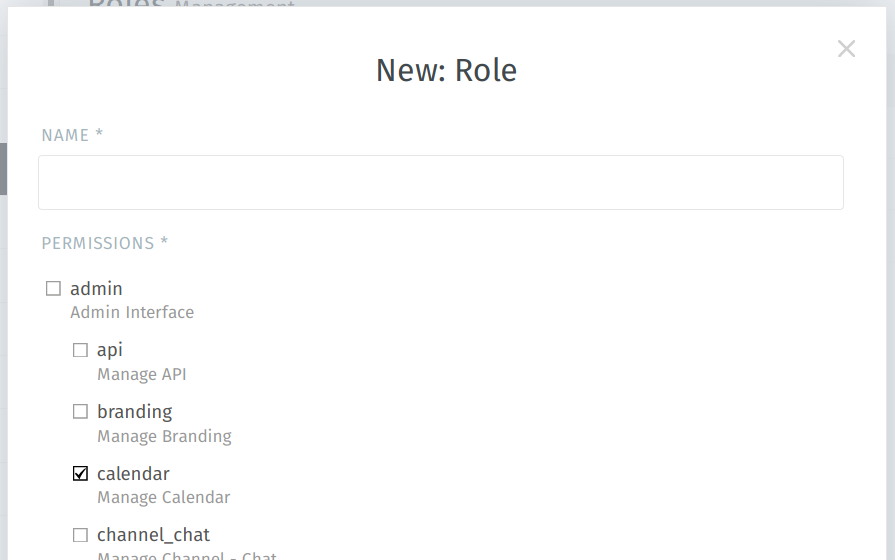
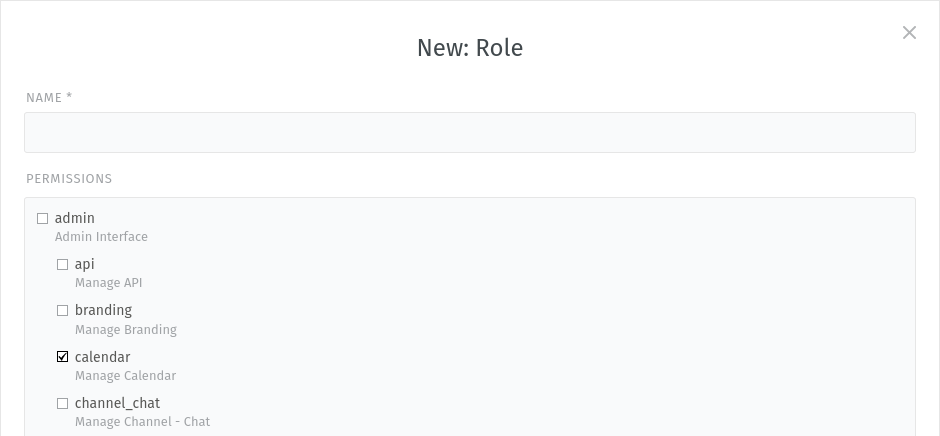
Replaced screenshot, small clean up

Changed region(s): [[0.0, 0.0, 1.0, 1.0], [0.0603, 0.5963, 0.3017, 1.0], [0.4223, 0.0894, 0.5732, 0.1491]]

diff --git a/manage/roles/index.rst b/manage/roles/index.rst
@@ -1,9 +1,9 @@
 Roles
 =====
 
-If you’re already using Zammad,
-you’ll know that users can be **admins**, **agents**, or **customers**.
-These are Zammad’s built-in roles, and they’re the tip of the iceberg
+If you're already using Zammad,
+you'll know that users can be **admins**, **agents**, or **customers**.
+These are Zammad's built-in roles, and they're the tip of the iceberg
 of its powerful, flexible, and fine-grained permission system.
 
 .. figure:: /images/manage/roles/role-overview.png
@@ -17,13 +17,13 @@ of its powerful, flexible, and fine-grained permission system.
 
    Why would you want this?
    Agents get :doc:`overviews </manage/overviews>`
-   of all the tickets they’re *assigned to* (among other things),
-   while customers get an overview of all the tickets they’ve *opened*.
+   of all the tickets they're *assigned to* (among other things),
+   while customers get an overview of all the tickets they've *opened*.
    But some teams use Zammad for both internal and public communication,
    so their agents need both.
 
    Having both roles also changes what you see in the ticket view,
-   depending on whether you’re the “customer” or not.
+   depending on whether you're the “customer” or not.
 
 .. tip:: 💡 **LDAP/Active Directory users:**
 
@@ -36,7 +36,7 @@ of its powerful, flexible, and fine-grained permission system.
 What Is a Role?
 ---------------
 
-**tl;dr** Some users can do things others can’t (like close a ticket).
+**tl;dr** Some users can do things others can't (like close a ticket).
 Users have roles, roles have permissions,
 and permissions are what make those actions possible.
 
@@ -45,7 +45,7 @@ So what exactly are permissions, then?
 .. figure:: /images/manage/roles/permissions-admin.png
    :alt: List of permissions in the New Role dialog
    :align: center
-   :width: 80%
+   :width: 90%
 
    The ``admin.calendar`` permission gives you access
    to the **Manage > Calendars** admin panel.
@@ -72,7 +72,7 @@ In short, roles are just collections of permissions that you can give to a user.
 The built-in admin, agent, and customer roles are enough for many teams,
 but Zammad gives you the freedom to custom-build your own.
 
-And to do that, you’ll need to know what each permission does.
+And to do that, you'll need to know what each permission does.
 
 .. _permission-guide:
 
@@ -96,7 +96,7 @@ Broadly speaking, there are four types of permissions:
 
 👤 Customer
    Without the ``ticket.customer`` permission,
-   customers can’t see the **My Ticket** overview—but
+   customers can't see the **My Ticket** overview—but
    they can still log in and open new tickets!
 
 :doc:`🎛 User Preferences <user-preferences-permissions>`
